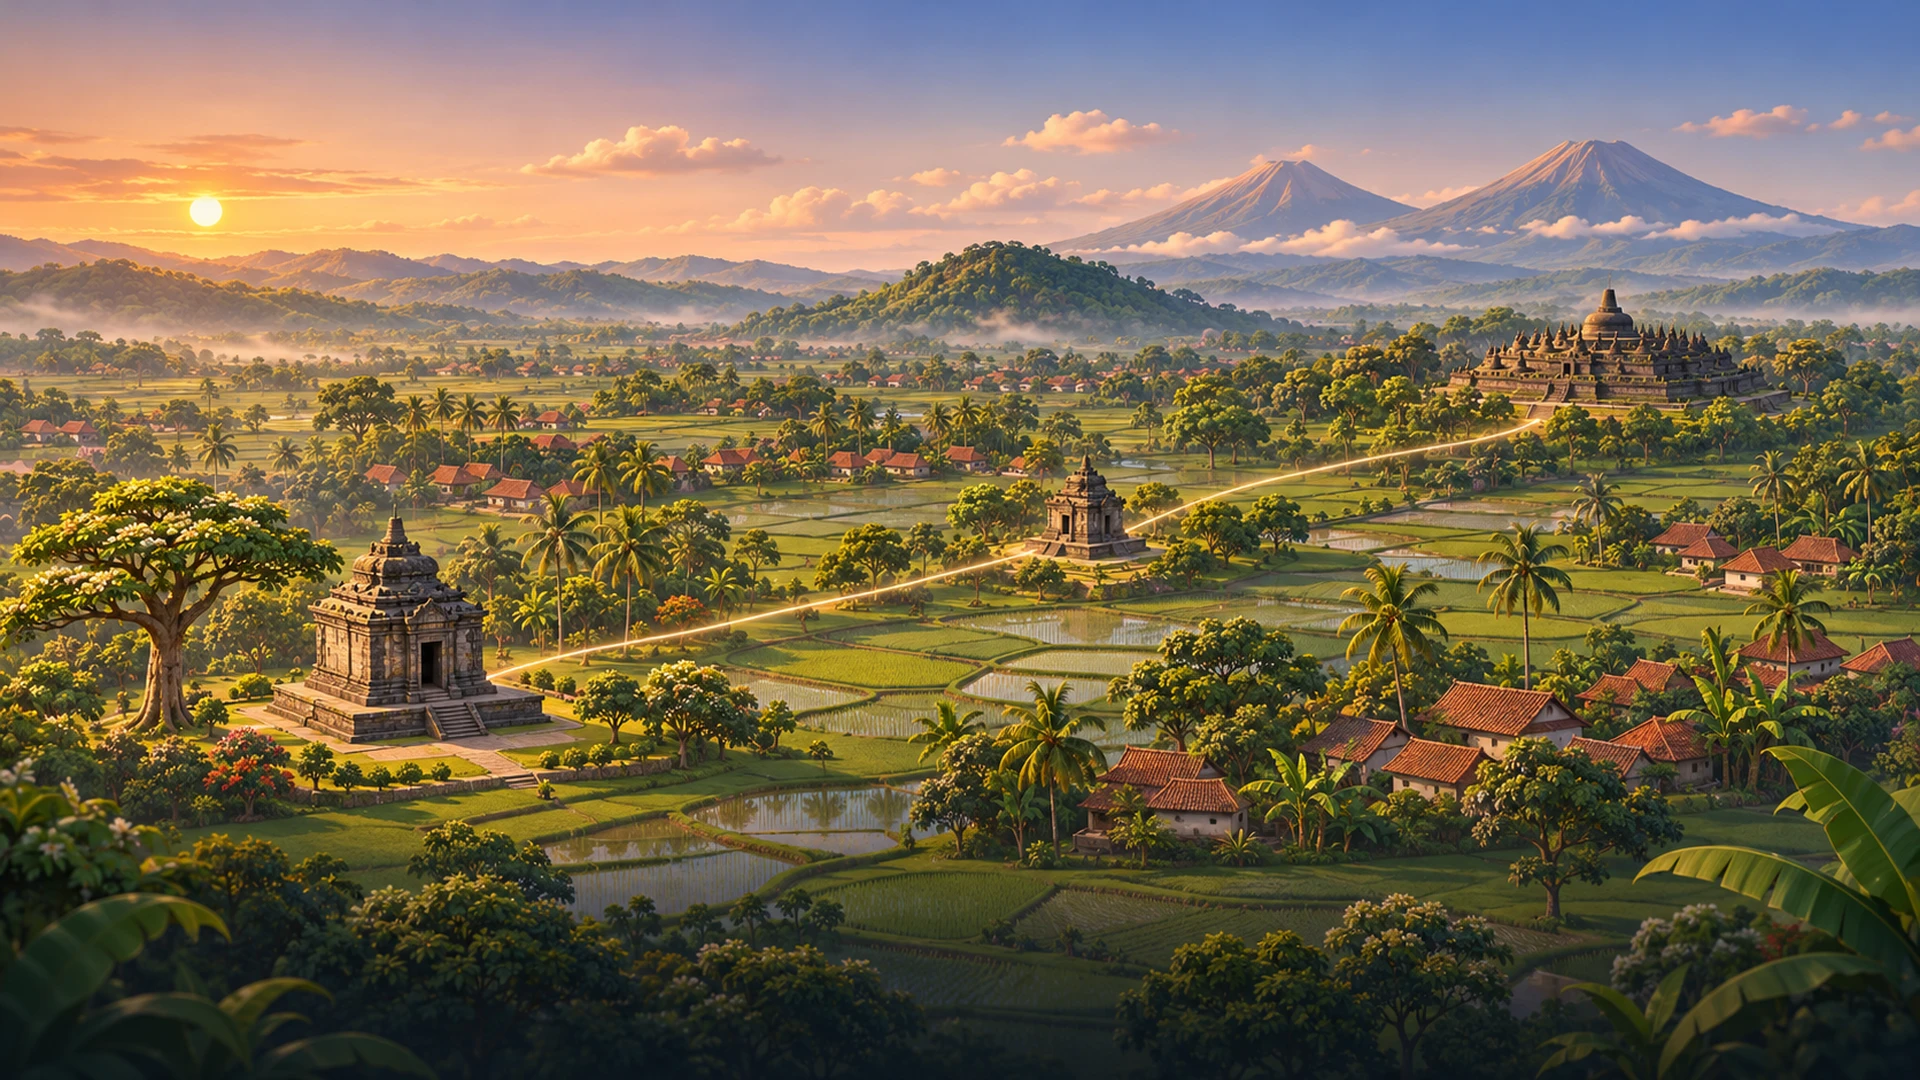
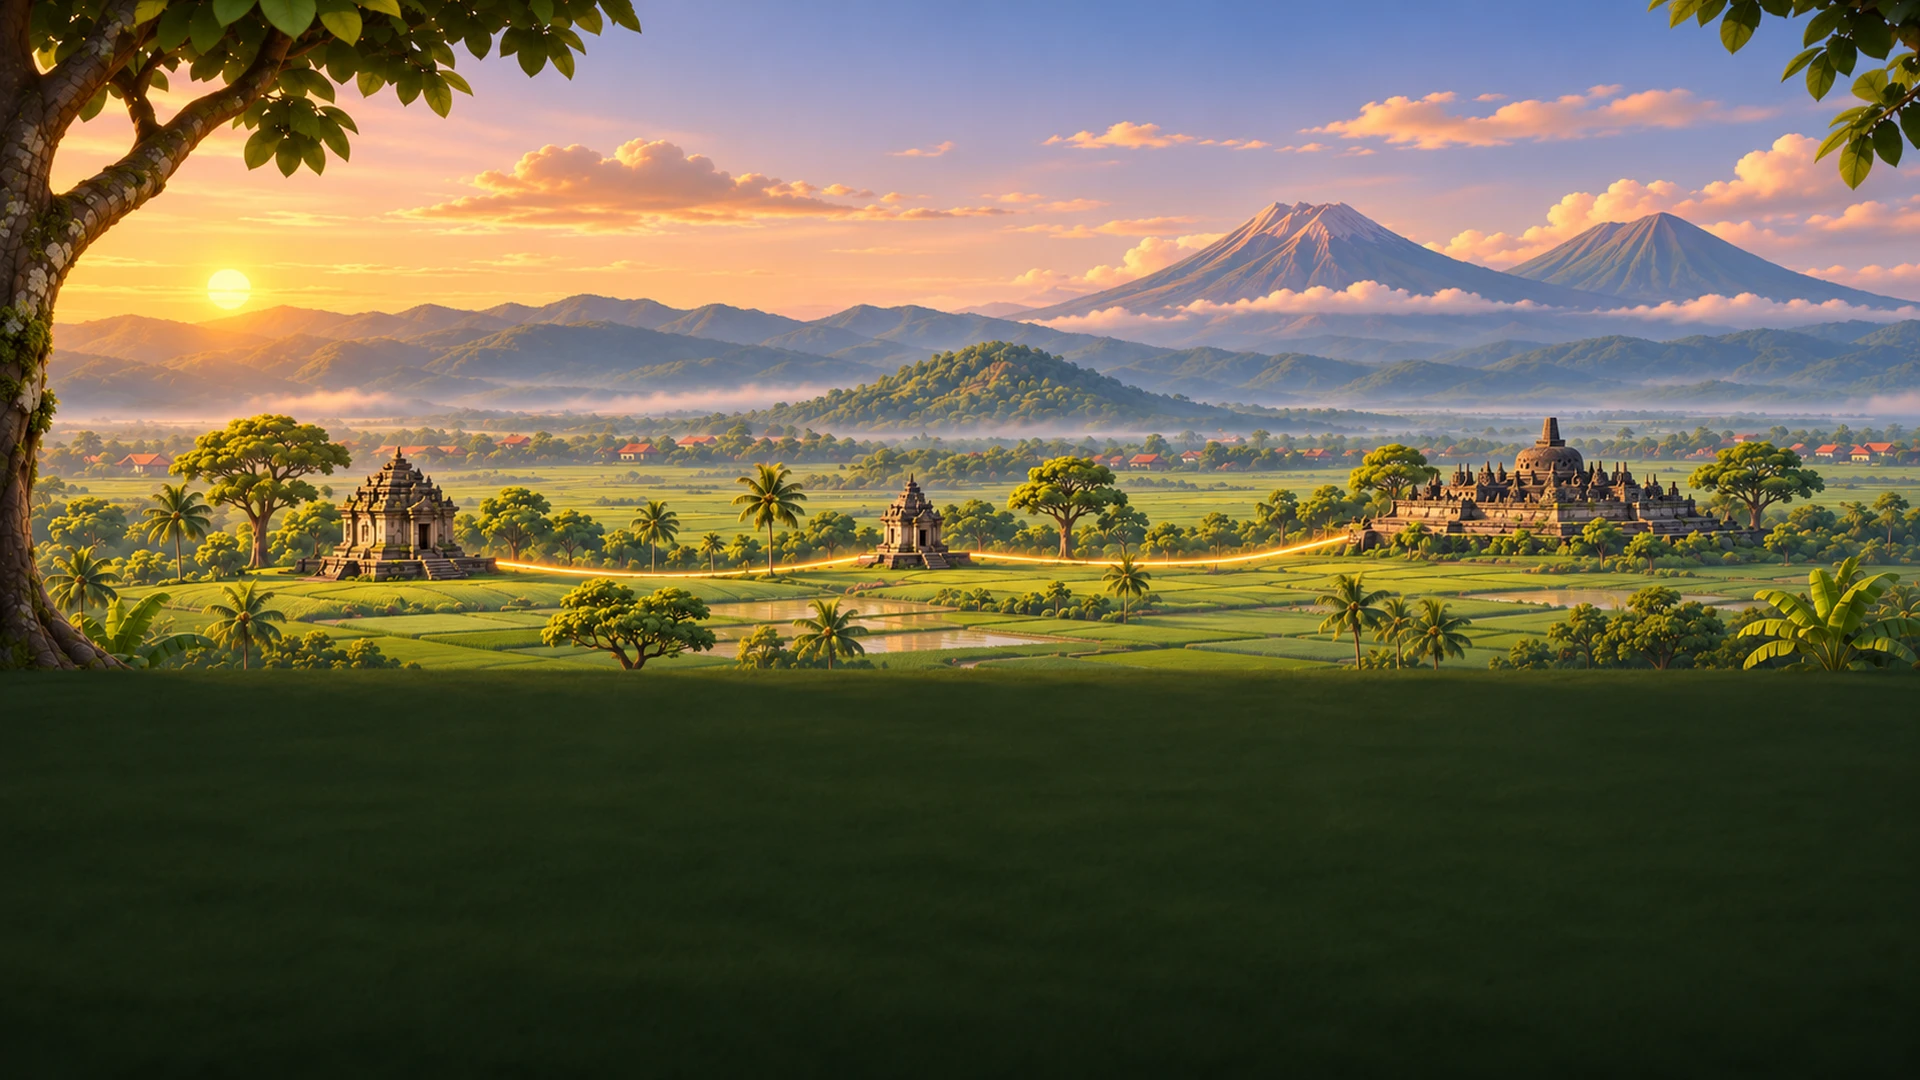
ChatGPT images: M-K3, M-L1, W-K3; reference photos

diff --git a/ai-studio/chatgpt-images/TASKS.md b/ai-studio/chatgpt-images/TASKS.md
@@ -8,8 +8,8 @@ Statuses: `todo` → `generated` (ChatGPT, file is in `out/`) → `accepted` or 
 
 | Code | Picture | Prompt: file → heading | Save in `out/` as | Canvas | Attach | For the installer | Status | Notes |
 |---|---|---|---|---|---|---|---|---|
-| TMG-P11 | Susun Gambar: Wayang Kedu (3 × 3 grid) | `docs/revisi-10-analitik/37_PROMPT_GAMBAR_SUSUN_DAN_CERITA.md` → *TMG-P11 · Wayang Kedu* | `challenge.item.tmg-1-k01.webp` | 1200 × 1200 | style + licensed photo of a Kedu Temanggungan wayang kulit performance | new slot `challenge.item.tmg-1-k01` | blocked: needs reference photo | 2026-11-14 — Foto rujukan berlisensi belum tersedia di inbox. |
-| MGL-P05R | Susun Gambar: Candi Pawon, replacement (4 × 4 grid) | `docs/revisi-10-analitik/37_PROMPT_GAMBAR_SUSUN_DAN_CERITA.md` → *MGL-P05R · Candi Pawon (pengganti)* | `challenge.item.mgl-1-e01.webp` | 1200 × 1200 | style + licensed photo of Candi Pawon | replaces `gelita-katalog/assets/tantangan/challenge.item.mgl-1-e01.webp` | blocked: needs reference photo | 2026-11-14 — Foto rujukan berlisensi belum tersedia di inbox. |
+| TMG-P11 | Susun Gambar: Wayang Kedu (3 × 3 grid) | `docs/revisi-10-analitik/37_PROMPT_GAMBAR_SUSUN_DAN_CERITA.md` → *TMG-P11 · Wayang Kedu* | `challenge.item.tmg-1-k01.webp` | 1200 × 1200 | style + licensed photo of a Kedu Temanggungan wayang kulit performance | new slot `challenge.item.tmg-1-k01` | blocked: needs licensed reference photo | 2026-11-14 — Foto rujukan berlisensi belum tersedia di inbox. 2026-11-15 — Tautan Smart City diperiksa; izin penggunaan foto tidak tercantum. Rincian: inbox/reference-sources-2026-11-15.json. |
+| MGL-P05R | Susun Gambar: Candi Pawon, replacement (4 × 4 grid) | `docs/revisi-10-analitik/37_PROMPT_GAMBAR_SUSUN_DAN_CERITA.md` → *MGL-P05R · Candi Pawon (pengganti)* | `challenge.item.mgl-1-e01.webp` | 1200 × 1200 | style + licensed photo of Candi Pawon | replaces `gelita-katalog/assets/tantangan/challenge.item.mgl-1-e01.webp` | blocked: photo fidelity and watermark checks | 2026-11-14 — Foto rujukan berlisensi belum tersedia di inbox. 2026-11-15 — Dua foto Pawon berlisensi sudah di inbox; 3 percobaan gagal cek kesetiaan foto/watermark. Kandidat terakhir: inbox/MGL-P05R-candidate-failed-checks.webp; sumber/atribusi: inbox/reference-sources-2026-11-15.json. |
 | T-K1 | Story background, Temanggung, Kenali | `docs/revisi-10-analitik/37_PROMPT_GAMBAR_SUSUN_DAN_CERITA.md` → *T-K1 · Di Antara Dua Gunung* | `bg.cerita-kenal-temanggung-01.webp` | 1920 × 1080 | style | one slot | generated | 2026-11-14 |
 | T-K2 | Story background, Temanggung, Kenali | `docs/revisi-10-analitik/37_PROMPT_GAMBAR_SUSUN_DAN_CERITA.md` → *T-K2 · Tanah Para Petani* | `bg.cerita-kenal-temanggung-02.webp` | 1920 × 1080 | style | one slot | generated | 2026-11-14 |
 | T-K3 | Story background, Temanggung, Kenali | `docs/revisi-10-analitik/37_PROMPT_GAMBAR_SUSUN_DAN_CERITA.md` → *T-K3 · Jejak Masa Lalu* | `bg.cerita-kenal-temanggung-03.webp` | 1920 × 1080 | style | one slot | generated | 2026-11-14 |
@@ -20,18 +20,18 @@ Statuses: `todo` → `generated` (ChatGPT, file is in `out/`) → `accepted` or 
 | T-T1 | Story background, Temanggung, region done | `docs/revisi-10-analitik/37_PROMPT_GAMBAR_SUSUN_DAN_CERITA.md` → *T-T1 · Temanggung cerah lagi* | `bg.cerita-tuntas-temanggung-01.webp` | 1920 × 1080 | style | also fills `bg.cerita-tuntas-temanggung-02` to `bg.cerita-tuntas-temanggung-05` (5 slots) | generated | 2026-11-14 |
 | T-L1 | Story background, Temanggung, bridge story | `docs/revisi-10-analitik/37_PROMPT_GAMBAR_SUSUN_DAN_CERITA.md` → *T-L1 · Kabut di Layar (Temanggung)* | `bg.cerita-layar-temanggung-01.webp` | 1920 × 1080 | style | also fills `bg.cerita-layar-temanggung-02` to `bg.cerita-layar-temanggung-06` (6 slots) | generated | 2026-11-14 |
 | M-K1 | Story background, Magelang, Kenali | `docs/revisi-10-analitik/37_PROMPT_GAMBAR_SUSUN_DAN_CERITA.md` → *M-K1 · Tanah Candi Agung* | `bg.cerita-kenal-magelang-01.webp` | 1920 × 1080 | style | one slot | generated | 2026-11-15 — Acuan foto pemilik di chat. |
-| M-K2 | Story background, Magelang, Kenali | `docs/revisi-10-analitik/37_PROMPT_GAMBAR_SUSUN_DAN_CERITA.md` → *M-K2 · Buku dari Batu* | `bg.cerita-kenal-magelang-02.webp` | 1920 × 1080 | style | one slot | blocked: needs verified relief reference | 2026-11-14 — Kandidat di inbox; perlu acuan panel asli agar tidak mengarang relief. Review 15 Nov 2026 (Claude session): delete `inbox/M-K2-needs-relief-reference.png` (2.8 MB) once this row is settled. |
-| M-K3 | Story background, Magelang, Kenali | `docs/revisi-10-analitik/37_PROMPT_GAMBAR_SUSUN_DAN_CERITA.md` → *M-K3 · Tiga Candi Segaris* | `bg.cerita-kenal-magelang-03.webp` | 1920 × 1080 | style | one slot | redo: lower third too busy (temple, houses, ponds and palms under the text panel) | 2026-11-14 first picture. Prompt rewritten 15 Nov 2026: read it again. The three temples now sit in the upper two thirds, seen from a shaded hilltop; the lower third is only dark, plain grass. |
+| M-K2 | Story background, Magelang, Kenali | `docs/revisi-10-analitik/37_PROMPT_GAMBAR_SUSUN_DAN_CERITA.md` → *M-K2 · Buku dari Batu* | `bg.cerita-kenal-magelang-02.webp` | 1920 × 1080 | style | one slot | blocked: needs verified relief reference | 2026-11-14 — Kandidat di inbox; perlu acuan panel asli agar tidak mengarang relief. Review 15 Nov 2026 (Claude session): delete `inbox/M-K2-needs-relief-reference.png` (2.8 MB) once this row is settled. 2026-11-15 — Foto Borobudur O-001–O-003 dari UGM tersedia di inbox, belum dipakai: lisensi per berkas dan kecocokan lorong perlu verifikasi (Commons 403). Tautan relief Mendut berlisensi CC BY 2.0, tetapi bukan Borobudur. Rincian: inbox/reference-sources-2026-11-15.json. |
+| M-K3 | Story background, Magelang, Kenali | `docs/revisi-10-analitik/37_PROMPT_GAMBAR_SUSUN_DAN_CERITA.md` → *M-K3 · Tiga Candi Segaris* | `bg.cerita-kenal-magelang-03.webp` | 1920 × 1080 | style | one slot | generated | 2026-11-14 first picture. Prompt rewritten 15 Nov 2026: read it again. The three temples now sit in the upper two thirds, seen from a shaded hilltop; the lower third is only dark, plain grass. 2026-11-15 — Generated ulang dari prompt PR #359; sepertiga bawah berupa pita rumput gelap yang polos. |
 | M-K4 | Story background, Magelang, Kenali | `docs/revisi-10-analitik/37_PROMPT_GAMBAR_SUSUN_DAN_CERITA.md` → *M-K4 · Pesan Mbah* | `bg.cerita-kenal-magelang-04.webp` | 1920 × 1080 | style | one slot | generated | 2026-11-15 |
 | M-D1 | Story background, Magelang, region dialogue | `docs/revisi-10-analitik/37_PROMPT_GAMBAR_SUSUN_DAN_CERITA.md` → *M-D1 · Borobudur berkabut* | `bg.cerita-dialog-magelang-01.webp` | 1920 × 1080 | style | also fills `bg.cerita-dialog-magelang-02` to `bg.cerita-dialog-magelang-04` (4 slots) | generated | 2026-11-15 |
 | M-D2 | Story background, Magelang, region dialogue | `docs/revisi-10-analitik/37_PROMPT_GAMBAR_SUSUN_DAN_CERITA.md` → *M-D2 · Dua bapak bertengkar* | `bg.cerita-dialog-magelang-05.webp` | 1920 × 1080 | style | also fills `bg.cerita-dialog-magelang-06` to `bg.cerita-dialog-magelang-08` (4 slots) | generated | 2026-11-15 |
 | M-D3 | Story background, Magelang, region dialogue | `docs/revisi-10-analitik/37_PROMPT_GAMBAR_SUSUN_DAN_CERITA.md` → *M-D3 · Tempat beristirahat* | `bg.cerita-dialog-magelang-09.webp` | 1920 × 1080 | style | also fills `bg.cerita-dialog-magelang-10` to `bg.cerita-dialog-magelang-14` (6 slots) | generated | 2026-11-15 |
 | M-D4 | Story background, Magelang, region dialogue | `docs/revisi-10-analitik/37_PROMPT_GAMBAR_SUSUN_DAN_CERITA.md` → *M-D4 · Relief kembali bercerita* | `bg.cerita-dialog-magelang-15.webp` | 1920 × 1080 | style | also fills `bg.cerita-dialog-magelang-16` to `bg.cerita-dialog-magelang-16` (2 slots) | generated | 2026-11-15 |
 | M-T1 | Story background, Magelang, region done | `docs/revisi-10-analitik/37_PROMPT_GAMBAR_SUSUN_DAN_CERITA.md` → *M-T1 · Membaca relief bersama* | `bg.cerita-tuntas-magelang-01.webp` | 1920 × 1080 | style | also fills `bg.cerita-tuntas-magelang-02` to `bg.cerita-tuntas-magelang-05` (5 slots) | generated | 2026-11-15 |
-| M-L1 | Story background, Magelang, bridge story | `docs/revisi-10-analitik/37_PROMPT_GAMBAR_SUSUN_DAN_CERITA.md` → *M-L1 · Ponsel yang Terus Berbunyi* | `bg.cerita-layar-magelang-01.webp` | 1920 × 1080 | style | also fills `bg.cerita-layar-magelang-02` to `bg.cerita-layar-magelang-06` (6 slots) | redo: no clearly adult figure, and one child faces the viewer | 2026-11-15 first picture. Prompt rewritten 15 Nov 2026: read it again. Exactly three children seen from the side or behind, and one unmistakably adult volunteer standing by the bookshelf with a book, no phone. |
+| M-L1 | Story background, Magelang, bridge story | `docs/revisi-10-analitik/37_PROMPT_GAMBAR_SUSUN_DAN_CERITA.md` → *M-L1 · Ponsel yang Terus Berbunyi* | `bg.cerita-layar-magelang-01.webp` | 1920 × 1080 | style | also fills `bg.cerita-layar-magelang-02` to `bg.cerita-layar-magelang-06` (6 slots) | generated | 2026-11-15 first picture. Prompt rewritten 15 Nov 2026: read it again. Exactly three children seen from the side or behind, and one unmistakably adult volunteer standing by the bookshelf with a book, no phone. 2026-11-15 — Generated ulang dari prompt PR #359; tepat 3 anak tampak samping/belakang dan 1 relawan dewasa dengan buku; area panel teks tenang. |
 | W-K1 | Story background, Wonosobo, Kenali | `docs/revisi-10-analitik/37_PROMPT_GAMBAR_SUSUN_DAN_CERITA.md` → *W-K1 · Negeri di Atas Awan* | `bg.cerita-kenal-wonosobo-01.webp` | 1920 × 1080 | style | one slot | generated | 2026-11-15 |
 | W-K2 | Story background, Wonosobo, Kenali | `docs/revisi-10-analitik/37_PROMPT_GAMBAR_SUSUN_DAN_CERITA.md` → *W-K2 · Candi, Telaga, dan Tradisi* | `bg.cerita-kenal-wonosobo-02.webp` | 1920 × 1080 | style | one slot | generated | 2026-11-15 — Acuan foto pemilik di chat. |
-| W-K3 | Story background, Wonosobo, Kenali | `docs/revisi-10-analitik/37_PROMPT_GAMBAR_SUSUN_DAN_CERITA.md` → *W-K3 · Hangatnya Budaya Pegunungan* | `bg.cerita-kenal-wonosobo-03.webp` | 1920 × 1080 | style | one slot | redo: cooking steam rises from the pots (Wonosobo: no steam of any kind) | 2026-11-15 first picture. Prompt rewritten 15 Nov 2026: read it again. Pots have their lids on; no steam, vapour or smoke anywhere; warmth comes from the light and from how people hold their bowls. |
+| W-K3 | Story background, Wonosobo, Kenali | `docs/revisi-10-analitik/37_PROMPT_GAMBAR_SUSUN_DAN_CERITA.md` → *W-K3 · Hangatnya Budaya Pegunungan* | `bg.cerita-kenal-wonosobo-03.webp` | 1920 × 1080 | style | one slot | generated | 2026-11-15 first picture. Prompt rewritten 15 Nov 2026: read it again. Pots have their lids on; no steam, vapour or smoke anywhere; warmth comes from the light and from how people hold their bowls. 2026-11-15 — Generated ulang dari prompt PR #359; 2 panci tertutup, tanpa uap/asap, warung dan orang di tengah gambar; area panel teks tenang. |
 | W-K4 | Story background, Wonosobo, Kenali | `docs/revisi-10-analitik/37_PROMPT_GAMBAR_SUSUN_DAN_CERITA.md` → *W-K4 · Pesan Mbah* | `bg.cerita-kenal-wonosobo-04.webp` | 1920 × 1080 | style | one slot | generated | 2026-11-15 |
 | W-D1 | Story background, Wonosobo, region dialogue | `docs/revisi-10-analitik/37_PROMPT_GAMBAR_SUSUN_DAN_CERITA.md` → *W-D1 · Dieng yang dingin* | `bg.cerita-dialog-wonosobo-01.webp` | 1920 × 1080 | style | also fills `bg.cerita-dialog-wonosobo-02` to `bg.cerita-dialog-wonosobo-02` (2 slots) | generated | 2026-11-15 |
 | W-D2 | Story background, Wonosobo, region dialogue | `docs/revisi-10-analitik/37_PROMPT_GAMBAR_SUSUN_DAN_CERITA.md` → *W-D2 · Warga panik* | `bg.cerita-dialog-wonosobo-03.webp` | 1920 × 1080 | style | also fills `bg.cerita-dialog-wonosobo-04` to `bg.cerita-dialog-wonosobo-06` (4 slots) | generated | 2026-11-15 |
